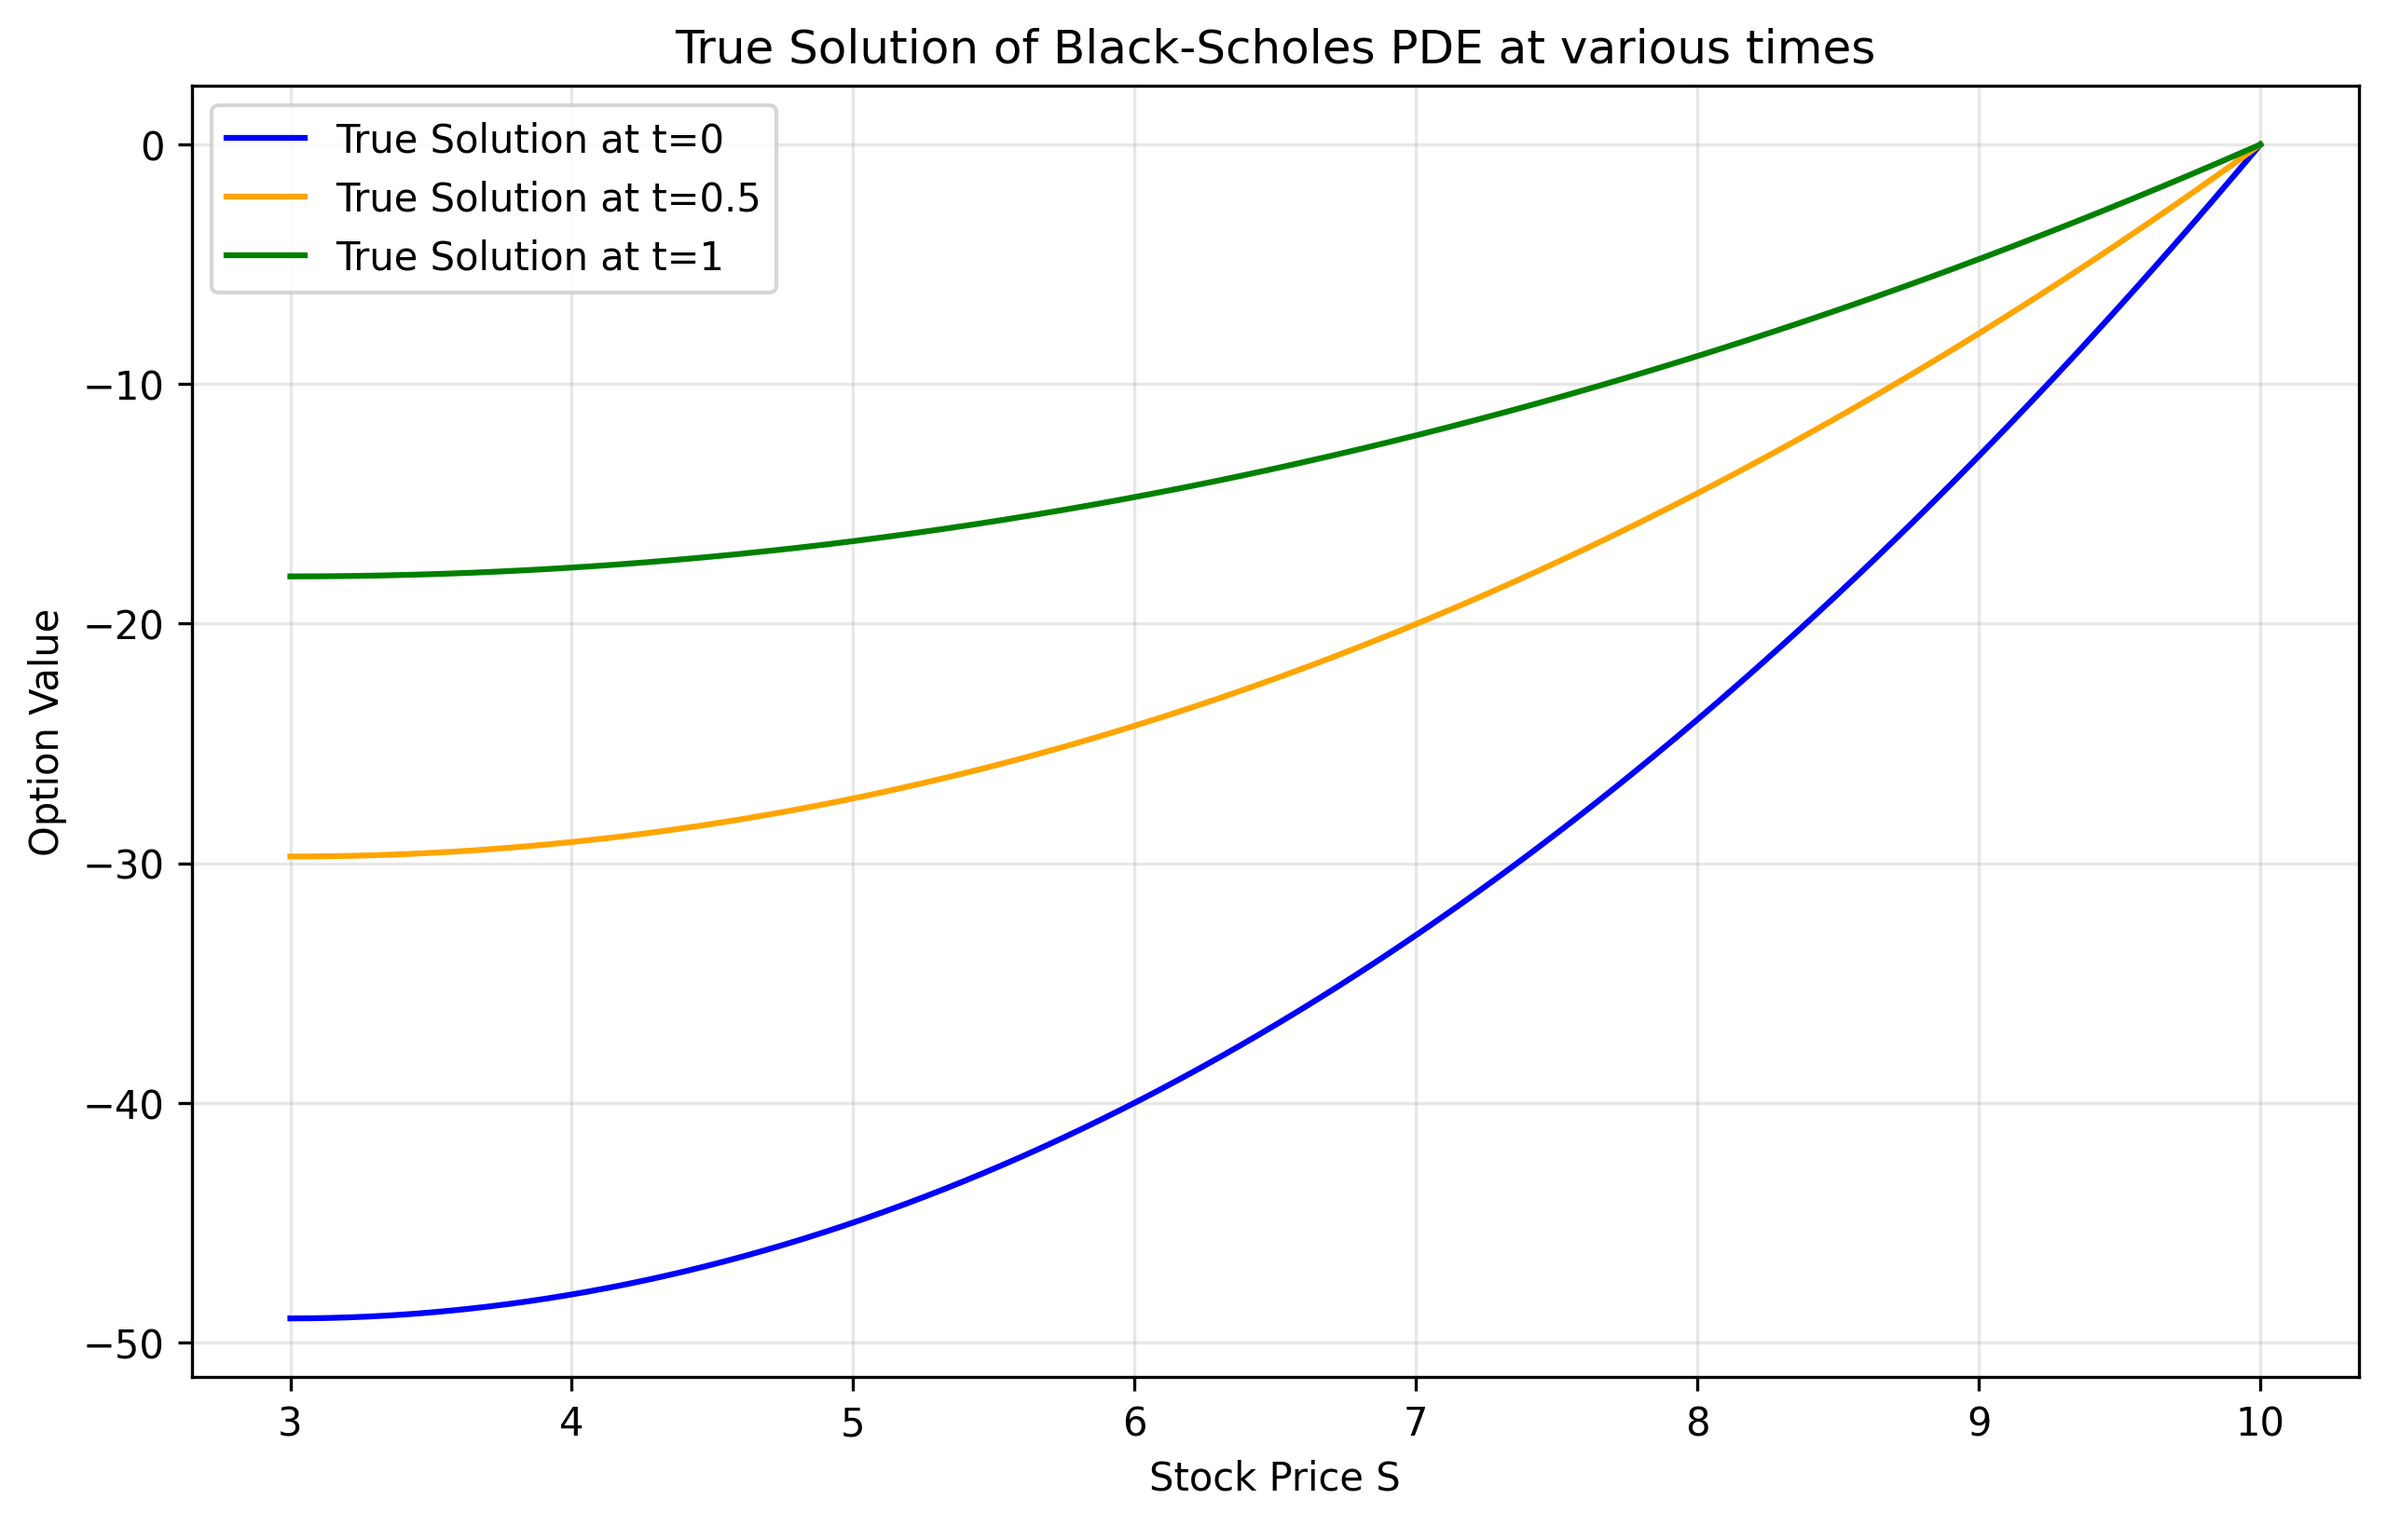
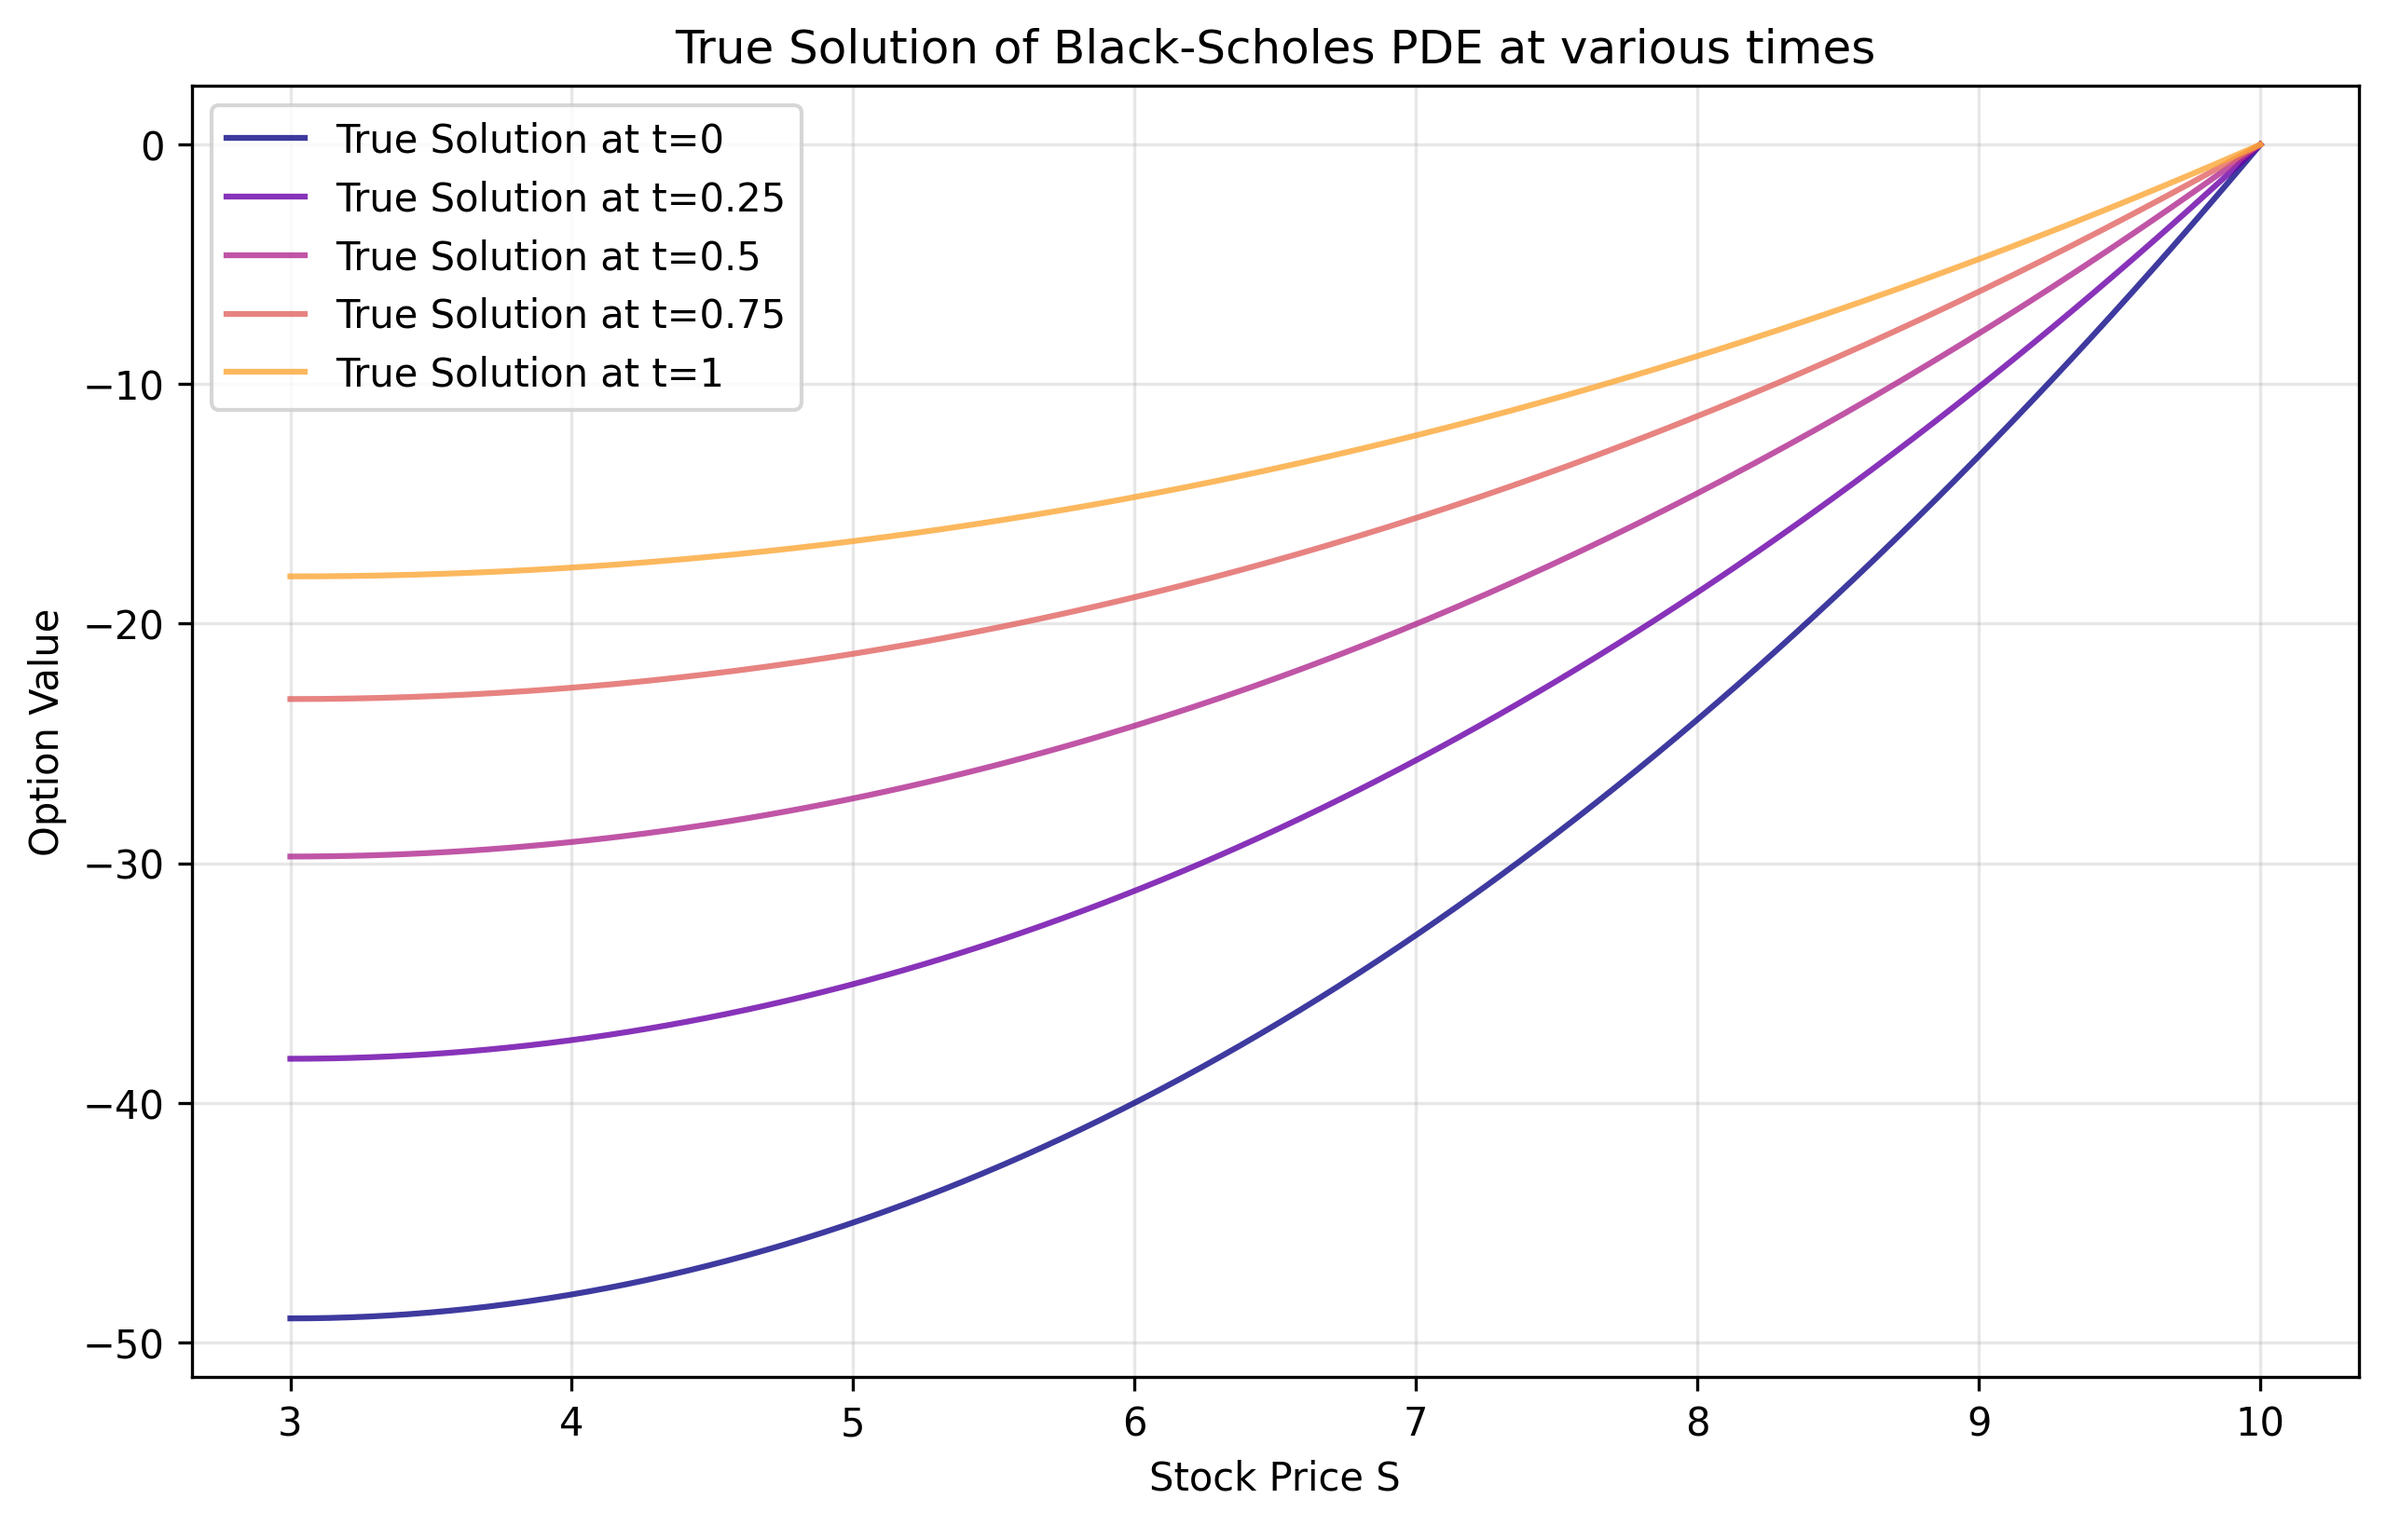
Updated plot of analytical solutions

diff --git a/code/main.py b/code/main.py
@@ -2,6 +2,7 @@
 Script to test the FEM solver against the analytical Black-Scholes solution.
 """
 import numpy as np
+import matplotlib
 import matplotlib.pyplot as plt
 import scipy.interpolate
 
@@ -11,9 +12,9 @@ from black_scholes_pde import *
 # Flags to control which parts of the code to run
 COMPUTE_EXAMPLE_1 = True
 COMPUTE_EXAMPLE_2 = True
-COMPUTE_ANALYTICAL = True
+COMPUTE_ANALYTICAL = False
 # The convergence study is computationally expensive, so it can be disabled
-COMPUTE_CONVERGENCE_STUDY = True
+COMPUTE_CONVERGENCE_STUDY = False
 
 def assert_order_delta_t_vs_h2(pde, element_count, timesteps_per_element):
     """
@@ -320,15 +321,16 @@ if __name__ == "__main__":
         # Create the constructed PDE instance
         pde = BlackScholesConstructedCos(S_min, S_max, r, sigma, T)
 
-        # Plot the constructed solution at various times
-        S_plot_true_sol = np.linspace(S_min, S_max, 200) 
-        true_solution_0 = pde.true_sol(S_plot_true_sol, 0)
-        true_solution_05 = pde.true_sol(S_plot_true_sol, 0.5)
-        true_solution_1 = pde.true_sol(S_plot_true_sol, 1)
+        # Plot the constructed solution at various times with colormap lines
+        S_plot_true_sol = np.linspace(S_min, S_max, 200)
+        times = [0, 0.25, 0.5, 0.75, 1]
+        cmap = matplotlib.colormaps['plasma']
+        colors = cmap(np.linspace(0, 0.8, len(times)))
         plt.figure(figsize=(10, 6))
-        plt.plot(S_plot_true_sol, true_solution_0, label='True Solution at t=0', color='blue')
-        plt.plot(S_plot_true_sol, true_solution_05, label='True Solution at t=0.5', color='orange')
-        plt.plot(S_plot_true_sol, true_solution_1, label='True Solution at t=1', color='green')
+        for i, t in enumerate(times):
+            color = colors[i]
+            true_sol = pde.true_sol(S_plot_true_sol, t)
+            plt.plot(S_plot_true_sol, true_sol, label=f't={t}', color=color, alpha=0.8)
         plt.title('True Solution of Black-Scholes PDE at various times')
         plt.xlabel('Stock Price S')
         plt.ylabel('Option Value')
@@ -365,15 +367,16 @@ if __name__ == "__main__":
         # Create the constructed PDE instance
         pde = BlackScholesConstructedPoly(S_min, S_max, r, sigma, T)
 
-        # Plot the constructed solution at various times
-        S_plot_true_sol = np.linspace(S_min, S_max, 200) 
-        true_solution_0 = pde.true_sol(S_plot_true_sol, 0)
-        true_solution_05 = pde.true_sol(S_plot_true_sol, 0.5)
-        true_solution_1 = pde.true_sol(S_plot_true_sol, 1)
+        # Plot the constructed solution at various times with colormap lines
+        S_plot_true_sol = np.linspace(S_min, S_max, 200)
+        times = [0, 0.25, 0.5, 0.75, 1]
+        cmap = matplotlib.colormaps['plasma']
+        colors = cmap(np.linspace(0, 0.8, len(times)))
         plt.figure(figsize=(10, 6))
-        plt.plot(S_plot_true_sol, true_solution_0, label='True Solution at t=0', color='blue')
-        plt.plot(S_plot_true_sol, true_solution_05, label='True Solution at t=0.5', color='orange')
-        plt.plot(S_plot_true_sol, true_solution_1, label='True Solution at t=1', color='green')
+        for i, t in enumerate(times):
+            color = colors[i]
+            true_sol = pde.true_sol(S_plot_true_sol, t)
+            plt.plot(S_plot_true_sol, true_sol, label=f'True Solution at t={t}', color=color, alpha=0.8)
         plt.title('True Solution of Black-Scholes PDE at various times')
         plt.xlabel('Stock Price S')
         plt.ylabel('Option Value')
